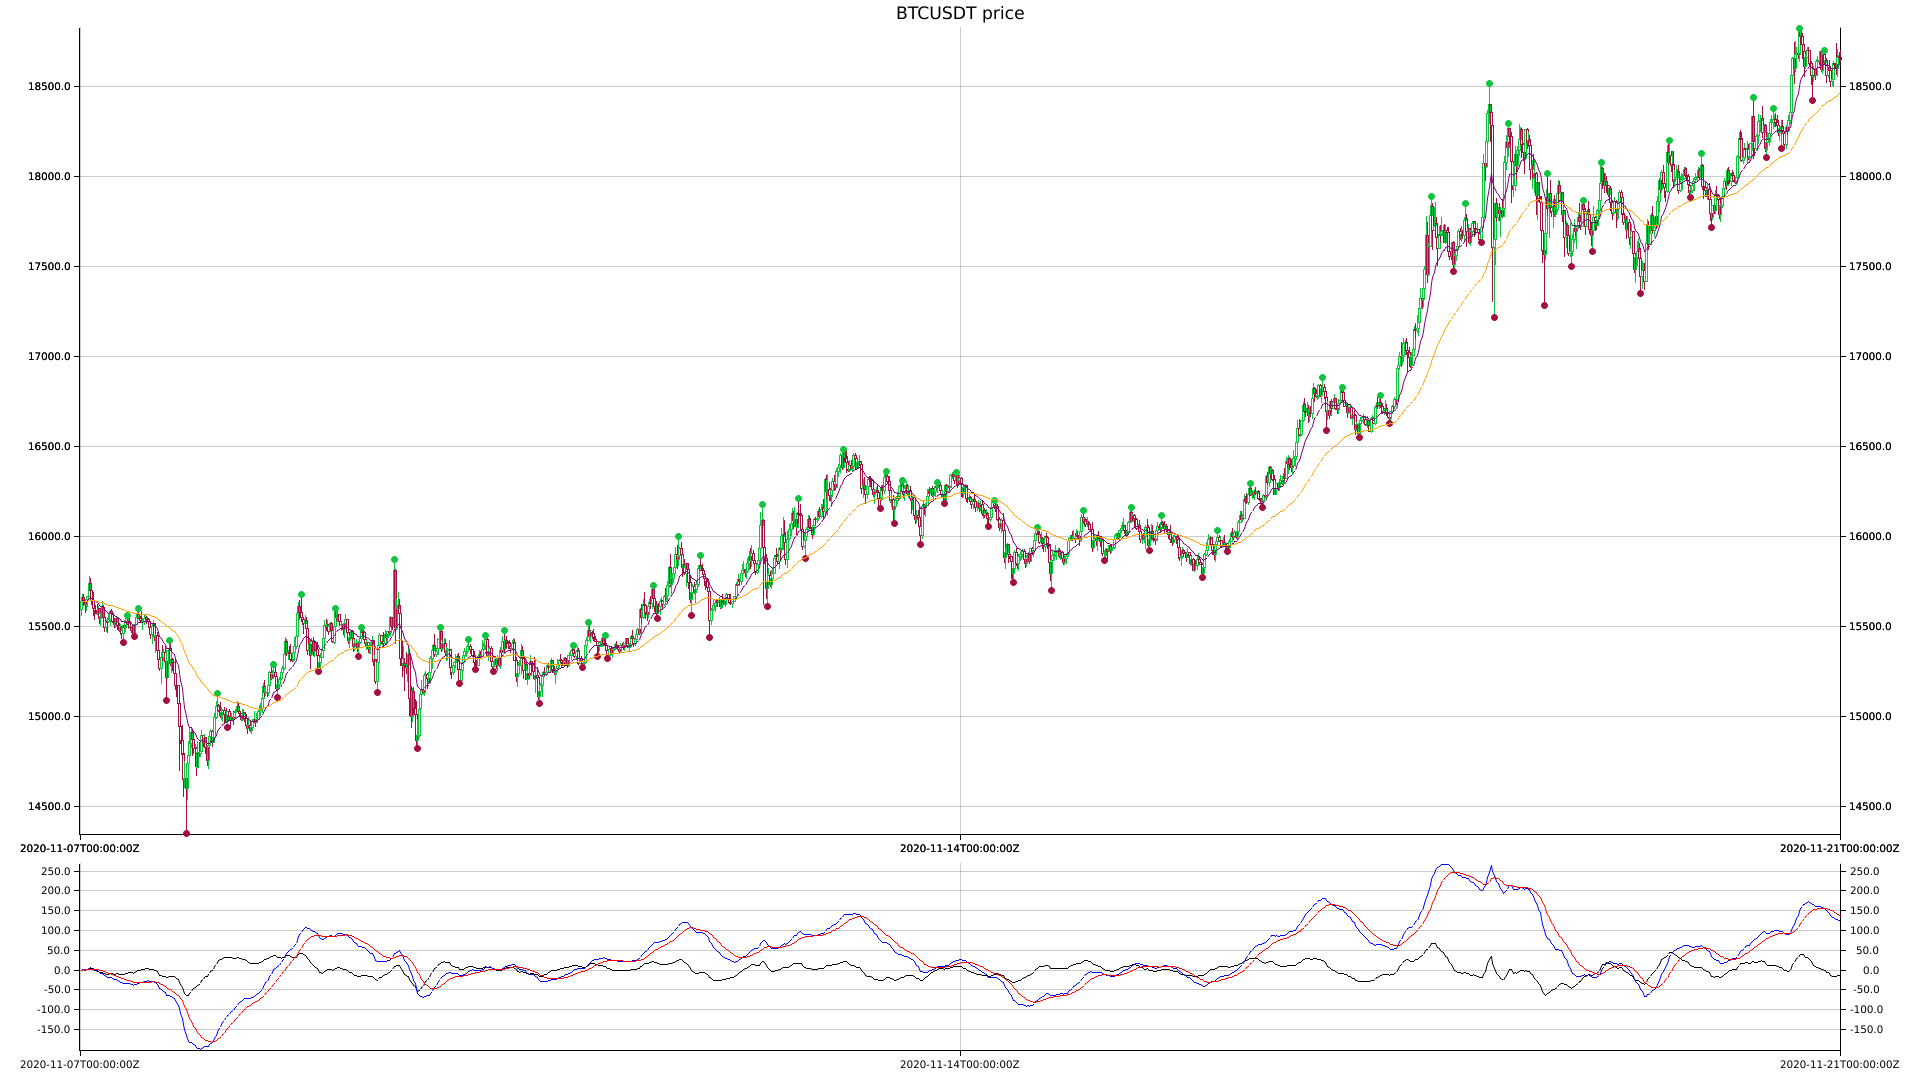
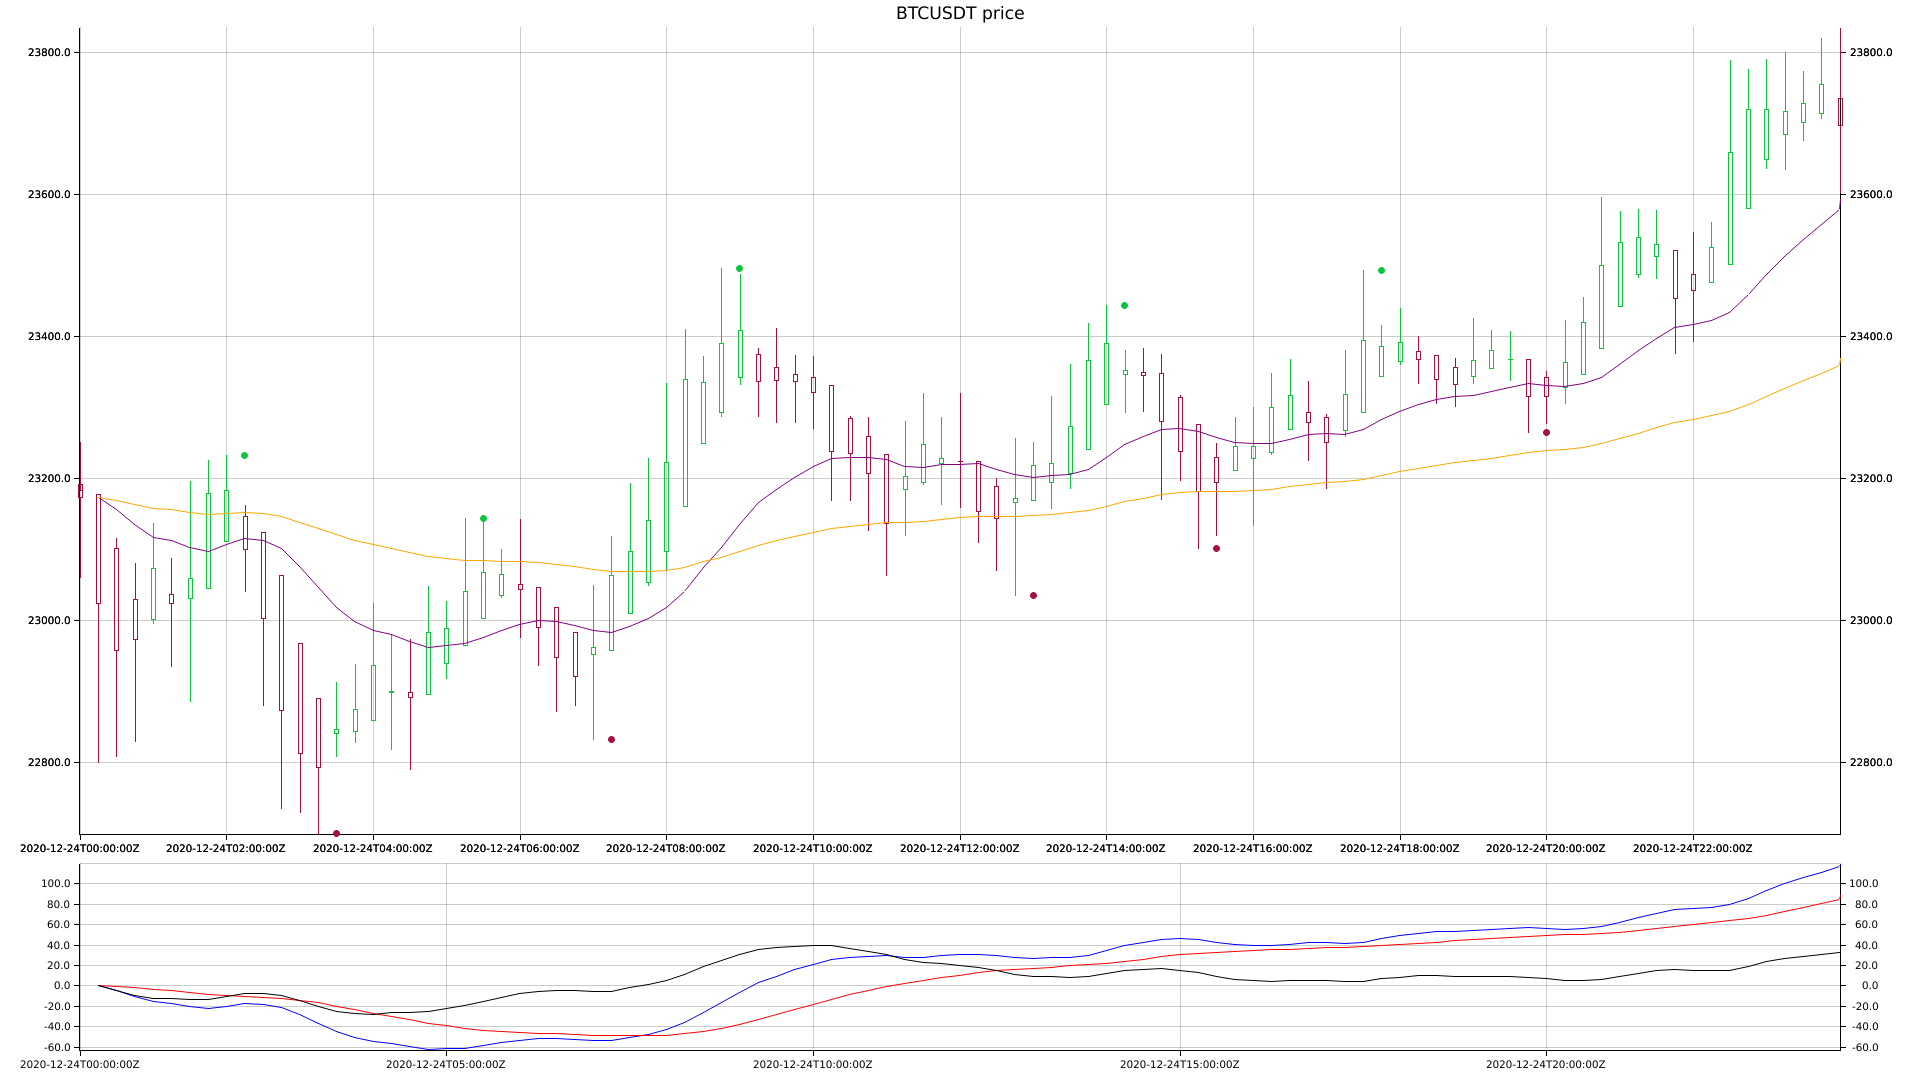
Initial trade entities

diff --git a/src/technicals/heikin_ashi.rs b/src/technicals/heikin_ashi.rs
@@ -1,0 +1,78 @@
+use crate::model::candle::Candle;
+use rust_decimal::Decimal;
+use rust_decimal_macros::dec;
+
+const DEC_2: Decimal = dec!(2);
+const DEC_4: Decimal = dec!(4);
+
+/// Heikin-Ashi Candle Calculations
+pub fn heikin_ashi(candles: &[&Candle]) -> Vec<Candle> {
+    let mut ha_candles = Vec::with_capacity(candles.len());
+    fn add_ha(has: &mut Vec<Candle>, hac: Candle) -> (Decimal, Decimal) {
+        let prev_oc = (hac.open, hac.close);
+        has.push(hac);
+        prev_oc
+    }
+
+    let first_ha = heikin_ashi_first(&candles[0]);
+    let mut prev_oc = add_ha(&mut ha_candles, first_ha);
+
+    for candle in candles {
+        let ha = heikin_ashi_candles(prev_oc.0, prev_oc.1, &candle);
+        prev_oc = add_ha(&mut ha_candles, ha);
+    }
+    ha_candles
+}
+
+/// First Heikin-Ashi Candle Calculations
+fn heikin_ashi_first(c: &Candle) -> Candle {
+    Candle {
+        close: (c.open + c.high + c.low + c.close) / DEC_4,
+        open: (c.open + c.close) / DEC_2,
+        ..c.clone()
+    }
+}
+
+/// Heikin-Ashi Candle Calculations
+fn heikin_ashi_candles(prev_ha_open: Decimal, prev_ha_close: Decimal, c: &Candle) -> Candle {
+    let ha_close = (c.open + c.high + c.low + c.close) / DEC_4;
+    let ha_open = (prev_ha_open + prev_ha_close) / DEC_2;
+    let ha_low = c.low.min(ha_open).min(ha_close);
+    let ha_high = c.high.max(ha_open).max(ha_close);
+    Candle {
+        close: ha_close,
+        open: ha_open,
+        low: ha_low,
+        high: ha_high,
+        ..c.clone()
+    }
+}
+
+// https://quantiacs.com/Blog/Intro-to-Algorithmic-Trading-with-Heikin-Ashi.aspx
+
+/*
+
+Often times Heikin-Ashi is a purely visual aid, and as you can see from the charts it smooths out the bars to emphasize trends with streaks of increasing/decreasing bars.
+To build our system, we’ll have to dive into the math behind the indicator.
+For any indicator this is usually well documented and can be found with a quick Google search. Here’s what we get for Heikin-Ashi:
+
+Heikin-Ashi Candle Calculations
+HA_Close = (Open + High + Low + Close) / 4
+HA_Open = (previous HA_Open + previous HA_Close) / 2
+HA_Low = minimum of Low, HA_Open, and HA_Close
+HA_High = maximum of High, HA_Open, and HA_Close
+
+One thing you may notice immediately is that the Heikin-Ashi Open price is a result of the previous Heikin-Ashi values.
+So when you’re first starting to calculate Heikin-Ashi, how do you obtain “previous” values? Well the standard solution is to do this on the first run:
+Heikin-Ashi Calculations on First Run
+
+HA_Close = (Open + High + Low + Close) / 4
+HA_Open = (Open + Close) / 2
+HA_Low = Low
+HA_High = High
+
+
+*/
+
+// One thing you may notice immediately is that the Heikin-Ashi Open price is a result of the previous Heikin-Ashi values. So when you’re first starting to calculate Heikin-Ashi, how do you obtain “previous” values? Well the standard solution is to do this on the first run:
+// Heikin-Ashi Calculations on First Run

diff --git a/src/strategy/model/order.rs b/src/strategy/model/order.rs
@@ -1,0 +1,44 @@
+use rust_decimal::Decimal;
+
+pub struct Order {
+    //@Column(name = "ID")
+    id: u64,
+    //@Column(name = "SYMBOL")
+    symbol: String,
+    //@Column(name = "EXCHANGE")
+    exchange: String,
+    //@Column(name = "PRICE", precision = 14, scale = 8)
+    price: Decimal,
+    //@Column(name = "AVG_EXECUTION_PRICE", precision = 14, scale = 8)
+    avg_execution_price: Decimal,
+    // buy / sell
+    //@Column(name = "SIDE")
+    side: String,
+    // exchange limit
+    //@Column(name = "TYPE")
+    type_o: String,
+    //@Column(name = "IS_LIVE")
+    is_live: bool,
+    //@Column(name = "IS_CANCELLED")
+    is_cancelled: bool,
+    //@Column(name = "IS_HIDDEN")
+    is_hidden: bool,
+    //@Column(name = "WAS_FORCED")
+    was_forced: bool,
+    //@Column(name = "ORIGINAL_AMOUNT", precision = 18, scale = 8)
+    original_amount: Decimal,
+    //@Column(name = "REMAINING_AMOUNT", precision = 18, scale = 8)
+    remaining_amount: Decimal,
+    //@Column(name = "EXECUTED_AMOUNT", precision = 18, scale = 8)
+    executed_amount: Decimal,
+    //@Column(name = "SOURCE")
+    source: String,
+    //@Column(name = "ORDER_ID")
+    order_id: u64,
+    //@Column(name = "POSITION")
+    position: u64,
+    //@Column(name = "PROFIT")
+    profit: u64,
+    //@Column(name = "SIMULATED")
+    simulation: bool,
+}

diff --git a/src/tac_plotters/candles_plotter.rs b/src/tac_plotters/candles_plotter.rs
@@ -22,10 +22,12 @@ impl<'a> PlotterIndicatorContext for CandlePlotter<'a> {
         _selection: &Selection,
         chart_context: &mut ChartContext<BitMapBackend<RGBPixel>, Cartesian2d<RangedDateTime<DateTime<Utc>>, RangedCoordf32>>,
     ) -> anyhow::Result<()> {
+        chart_context.configure_mesh().x_labels(12).light_line_style(&WHITE).draw()?;
+
         let red = RGBColor(164, 16, 64);
         let green = RGBColor(16, 196, 64);
-
-        chart_context.configure_mesh().x_labels(12).light_line_style(&WHITE).draw()?;
+        // Into::<ShapeStyle>::into(&RGBColor(16, 196, 64)).filled(),
+        // Into::<ShapeStyle>::into(&RGBColor(164, 16, 64)).filled(),
 
         let candle_series = self.candles.iter().map(|x| {
             CandleStick::new(
@@ -34,9 +36,9 @@ impl<'a> PlotterIndicatorContext for CandlePlotter<'a> {
                 x.high.to_f32().unwrap(),
                 x.low.to_f32().unwrap(),
                 x.close.to_f32().unwrap(),
-                &green,
                 &red,
-                2,
+                &green,
+                4,
             )
         });
         chart_context.draw_series(candle_series)?;

diff --git a/src/strategy/model/profit.rs b/src/strategy/model/profit.rs
@@ -1,0 +1,32 @@
+use chrono::{DateTime, Utc};
+use rust_decimal::Decimal;
+
+pub struct Profit {
+    id: u64,
+    symbol: String,
+    position: u64,
+    sold_date: DateTime<Utc>,
+    // @Column(name = "SOLD_PRICE", precision = 14, scale = 8)
+    sold_price: Decimal,
+    // @Column(name = "SOLD_AMOUNT", precision = 14, scale = 8)
+    sold_amount: Decimal,
+    bought_date: DateTime<Utc>,
+    // @Column(name = "BOUGHT_PRICE", precision = 14, scale = 8)
+    bought_price: Decimal,
+    // @Column(name = "BOUGHT_AMOUNT", precision = 14, scale = 8)
+    bought_amount: Decimal,
+    // @Column(name = "BOUGHT_USD", precision = 14, scale = 8)
+    bought_usd: Decimal,
+    // @Column(name = "SOLD_USD", precision = 14, scale = 8)
+    sold_usd: Decimal,
+    // @Column(name = "BOUGHT_ORDER")
+    bought_order: u64,
+    // @Column(name = "SOLD_ORDER")
+    sold_order: u64,
+    // @Column(name = "PROFIT", precision = 14, scale = 8)
+    profit: Decimal,
+    // @Column(name = "SIMULATED")
+    simulation: bool,
+    // @Column(name = "PERCENT", precision = 5, scale = 2)
+    percent: Decimal,
+}

diff --git a/src/tac_plotters/plotter.rs b/src/tac_plotters/plotter.rs
@@ -4,7 +4,7 @@ use chrono::{DateTime, Duration, Utc};
 use ifmt::iformat;
 use log::info;
 use plotters::prelude::*;
-use rust_decimal::{prelude::ToPrimitive, Decimal};
+use rust_decimal::Decimal;
 use rust_decimal_macros::dec;
 use std::{path::Path, time::Instant};
 
@@ -88,16 +88,4 @@ impl<'a> Plotter<'a> {
         info!("{}", iformat!("*** Plotting elapsed: {start.elapsed():?}"));
         Ok(())
     }
-}
-
-pub fn _date_time_range_from_candles(candles: &[&Candle], minutes: &u32) -> (DateTime<Utc>, DateTime<Utc>) {
-    let from_date = candles[0].close_time - Duration::minutes(*minutes as i64);
-    let to_date = candles[candles.len() - 1].close_time + Duration::minutes(*minutes as i64);
-    (from_date, to_date)
-}
-
-pub fn prices_range_from_candles(candles: &[&Candle]) -> (Decimal, Decimal) {
-    let max_price = candles.iter().fold(dec!(0), |acc, x| acc.max(x.high));
-    let min_price = candles.iter().fold(max_price, |acc, x| acc.min(x.low));
-    (min_price, max_price)
 }

diff --git a/src/strategy/model/flow.rs b/src/strategy/model/flow.rs
@@ -1,0 +1,26 @@
+use chrono::{DateTime, Utc};
+use rust_decimal::Decimal;
+
+pub struct Flow {
+    // @Column(name = "PROFIT")
+    profit: u64,
+    // @Column(name = "POSITION")
+    position: u64,
+    // @Column(name = "DATE")
+    // @Temporal(TemporalType.TIMESTAMP)
+    date: DateTime<Utc>,
+    // @Column(name = "PRICE", precision = 14, scale = 8)
+    price: Decimal,
+    // @Column(name = "AMOUNT", precision = 14, scale = 8)
+    amount: Decimal,
+    // @Column(name = "USD", precision = 14, scale = 8)
+    usd: Decimal,
+    // @Column(name = "ORIGINAL_USD", precision = 14, scale = 8)
+    original_usd: Decimal,
+    // @Column(name = "BALANCE_AMOUNT", precision = 14, scale = 8)
+    balance_amount: Decimal,
+    // @Column(name = "BALANCE_USD", precision = 14, scale = 8)
+    balance_usd: Decimal,
+    // @Column(name = "STATE")
+    state: String,
+}

diff --git a/src/strategy/model/position.rs b/src/strategy/model/position.rs
@@ -1,0 +1,19 @@
+use rust_decimal::Decimal;
+
+pub struct Position {
+    id: u64,
+    // SOLD / BOUGHT
+    position: String,
+    // @Column(name = "BALANCE", precision = 5, scale = 2)
+    balance: Decimal,
+    // @Column(name = "BALANCE_USD", precision = 18, scale = 8)
+    balance_usd: Decimal,
+    // @Column(name = "BALANCE_CURRENCY", precision = 18, scale = 8)
+    balance_amount: Decimal,
+    // @Column(name = "BALANCE_MINIMUN", precision = 18, scale = 8)
+    balance_minimun: Decimal,
+    symbol: String,
+    simulation: bool,
+    active: bool,
+    current_profit: u64,
+}

diff --git a/src/application/candles_provider.rs b/src/application/candles_provider.rs
@@ -4,6 +4,7 @@ use crate::{
     exchange::Exchange,
     model::{candle::Candle, open_close::OpenClose},
     repository::Repository,
+    technicals::heikin_ashi,
 };
 use chrono::{Duration, Utc};
 use ifmt::iformat;
@@ -69,6 +70,9 @@ impl<'a> CandlesProvider<'a> {
             }
         }
         info!("Finished import");
+
+        let candles_ref = candles.iter().collect::<Vec<_>>();
+        let candles = heikin_ashi::heikin_ashi(&candles_ref.as_slice());
 
         Ok(candles)
     }

diff --git a/src/technicals/mod.rs b/src/technicals/mod.rs
@@ -1,4 +1,5 @@
 pub mod ema_tac;
+pub mod heikin_ashi;
 pub mod indicator;
 pub mod macd;
 pub mod pivots;

diff --git a/src/strategy/model/mod.rs b/src/strategy/model/mod.rs
@@ -1,0 +1,4 @@
+pub mod flow;
+pub mod order;
+pub mod position;
+pub mod profit;

diff --git a/src/strategy/macd_stra.rs b/src/strategy/macd_stra.rs
@@ -2,3 +2,7 @@
 
 /// transfer 1000 USD
 /// buy 500 USD
+
+pub fn run() {
+
+}

diff --git a/src/strategy/mod.rs b/src/strategy/mod.rs
@@ -1,1 +1,2 @@
+pub mod model;
 pub mod pivots_triangle;
